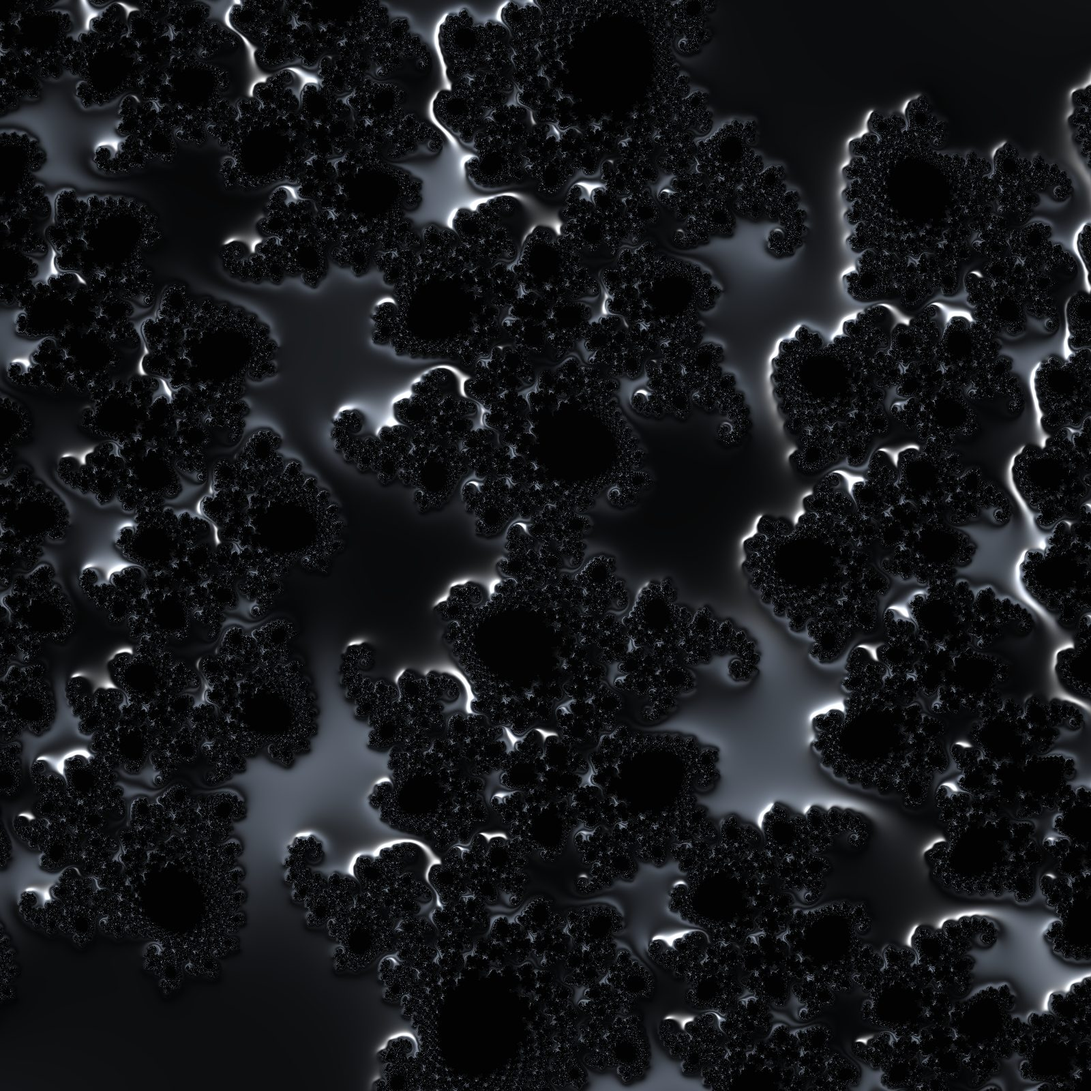
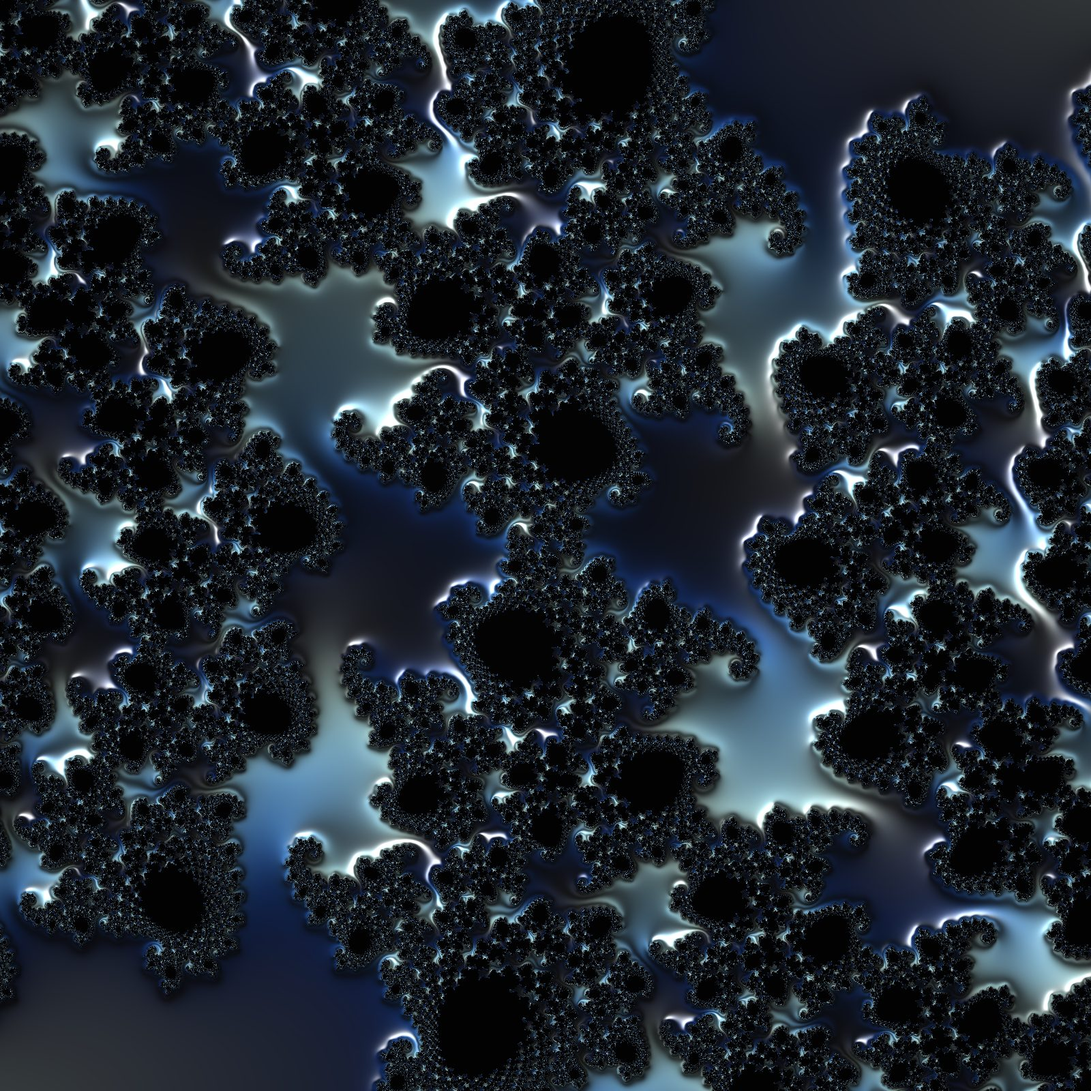
Fractal themes back to the original neon/ember/ice colours
Keeps the four shapes and the metallic lighting, coloured with the
first fractal palettes: Neon seahorse, Ember swirl, Ice spiral, Neon
lightning.

Claude-Session: https://claude.ai/code/session_017mYzszs9feN14jJPMm9ed1

diff --git a/index.html b/index.html
@@ -3960,10 +3960,10 @@ const WALLS=[
   {id:"liveportal",name:"Live portal",live:"portal",src:"wp/m/portal.jpg",pos:"50% 50%",shade:.1},
   {id:"livedub",name:"Live dub",live:"dub",src:"wp/m/deepdub.jpg",pos:"50% 50%",shade:0},
   {id:"livechrome",name:"Live silver",live:"chrome",src:"wp/m/pearl.jpg",pos:"50% 50%",shade:0},
-  {id:"fracseahorse",name:"Gold seahorse",live:"fseahorse",src:"wp/m/fracseahorse.jpg",pos:"50% 50%",shade:0},
-  {id:"fracswirl",name:"Rose gold swirl",live:"fswirl",src:"wp/m/fracswirl.jpg",pos:"50% 50%",shade:0},
-  {id:"fracspiral",name:"Gunmetal spiral",live:"fspiral",src:"wp/m/fracspiral.jpg",pos:"50% 50%",shade:0},
-  {id:"fracbolt",name:"Champagne lightning",live:"fbolt",src:"wp/m/fracbolt.jpg",pos:"50% 50%",shade:0}];
+  {id:"fracseahorse",name:"Neon seahorse",live:"fseahorse",src:"wp/m/fracseahorse.jpg",pos:"50% 50%",shade:0},
+  {id:"fracswirl",name:"Ember swirl",live:"fswirl",src:"wp/m/fracswirl.jpg",pos:"50% 50%",shade:0},
+  {id:"fracspiral",name:"Ice spiral",live:"fspiral",src:"wp/m/fracspiral.jpg",pos:"50% 50%",shade:0},
+  {id:"fracbolt",name:"Neon lightning",live:"fbolt",src:"wp/m/fracbolt.jpg",pos:"50% 50%",shade:0}];
 const WGROUPS=[["Live · animated",["livefire","liveportal","livedub","livechrome"]],["Fractal zoom",["fracseahorse","fracswirl","fracspiral","fracbolt"]],["Landscape",["alpine","serenity","snow","moonlit","aurora","sunset","ocean","forest","dunes","sakura"]],["Kaleidoscope",["hyperspace","portal","royalgold","gilded","inferno","deepdub","pearl","chrome"]],["Fire",["fire","serpent"]],["Dream & space",["liminal","nebula","midnight"]]];
 const wallGroups=()=>{const A=allWalls(),out=WGROUPS.map(([n,ids])=>[n,ids.map(i=>A.find(w=>w.id===i)).filter(Boolean)]);const seen=new Set(WGROUPS.flatMap(g=>g[1]));const rest=A.filter(w=>!w.custom&&!seen.has(w.id));if(rest.length)out[out.length-1][1].push(...rest);const mine=A.filter(w=>w.custom);if(mine.length)out.push(["Yours",mine]);return out.filter(g=>g[1].length)};
 const stripWalls=f=>wallGroups().map(([n,ws])=>`<span class="tgroup">${esc(n)}</span>`+ws.map(f).join("")).join("");
@@ -3985,9 +3985,9 @@ function bestSrc(w,spin){if(w.custom||!HDW.has(w.id))return w.src;const need=Mat
 const spinner=on=>{const e=$("#bgspin");if(e)e.classList.toggle("show",on)};
 /* live kaleidoscope: one shader, three palettes */
 /* fractal zoom: an endless dive into the Mandelbrot set, glowing along its edges */
-const FRAC_PAL={fseahorse:{tint:[1,.78,.36],sh:1,ctr:[-0.743643887037151,0.131825904205330],s0:1.6,s1:2e-4},fswirl:{tint:[.96,.62,.55],sh:2,ctr:[0,0],jc:[-0.8,0.156],s0:1.8,s1:.003},
-  fspiral:{tint:[.46,.5,.56],sh:2,ctr:[0,0],jc:[-0.7269,0.1889],s0:1.6,s1:.004},fbolt:{tint:[.93,.84,.64],sh:2,ctr:[0,0],jc:[0,1],s0:1.6,s1:.003}};
-const FRAC_FS=`precision highp float;uniform vec2 R;uniform float T;uniform vec2 Ctr,Jc;uniform float P,S0,S1,RO,SH;uniform vec3 TINT;float f(vec2 c){vec2 z=SH>1.5&&SH<2.5?c:vec2(0.);vec2 k=SH>1.5&&SH<2.5?Jc:c;float n=0.,m2=0.;for(int i=0;i<170;i++){if(SH>2.5&&SH<3.5)z=abs(z);if(SH>3.5)z.y=-z.y;z=vec2(z.x*z.x-z.y*z.y,2.*z.x*z.y)+k;m2=dot(z,z);if(m2>1e4)break;n+=1.;}return n>=169.?-1.:n-log2(log2(m2));}void main(){vec2 uv=(gl_FragCoord.xy-.5*R)/min(R.x,R.y);float ph=fract(T/P);float sc=S0*exp(-ph*log(S0/S1));float an=T*RO;mat2 rot=mat2(cos(an),-sin(an),sin(an),cos(an));uv=rot*uv;vec2 c=Ctr+uv*sc;float px=sc/min(R.x,R.y)*1.5;float h=f(c);vec3 col=vec3(.01);if(h>=0.){float hx=f(c+vec2(px,0.)),hy=f(c+vec2(0.,px));if(hx<0.)hx=h;if(hy<0.)hy=h;vec3 nrm=normalize(vec3((h-hx)*1.6,(h-hy)*1.6,1.));vec3 L=normalize(vec3(-.5,.6,.65));vec3 V=vec3(0.,0.,1.);vec3 Hh=normalize(L+V);float dif=max(dot(nrm,L),0.);float spe=pow(max(dot(nrm,Hh),0.),60.);vec3 rf=reflect(-V,nrm);float env=.5+.5*cos(rf.y*6.+rf.x*2.+h*.06);float band=.55+.45*cos(h*.18+T*.05);vec3 base=TINT*(.25+.75*env)*band;col=base*(.25+.9*dif)+vec3(1.)*spe*1.1+TINT*.04;}float fade=smoothstep(0.,.04,ph)*smoothstep(1.,.96,ph);float vig=1.-.45*dot(uv,uv);gl_FragColor=vec4(clamp(col*vig*fade,0.,1.),1.);}`;
+const FRAC_PAL={fseahorse:{tint:[1,1,1],a:[.5,.5,.5],b:[.5,.5,.5],c:[1,1,1],d:[0,.33,.67],sh:1,ctr:[-0.743643887037151,0.131825904205330],s0:1.6,s1:2e-4},fswirl:{tint:[1,1,1],a:[.5,.25,.12],b:[.5,.3,.15],c:[1,.9,.6],d:[0,.12,.25],sh:2,ctr:[0,0],jc:[-0.8,0.156],s0:1.8,s1:.003},
+  fspiral:{tint:[1,1,1],a:[.35,.5,.65],b:[.3,.35,.3],c:[1,1,1],d:[.55,.6,.68],sh:2,ctr:[0,0],jc:[-0.7269,0.1889],s0:1.6,s1:.004},fbolt:{tint:[1,1,1],a:[.5,.5,.5],b:[.5,.5,.5],c:[1,1,1],d:[0,.33,.67],sh:2,ctr:[0,0],jc:[0,1],s0:1.6,s1:.003}};
+const FRAC_FS=`precision highp float;uniform vec2 R;uniform float T;uniform vec2 Ctr,Jc;uniform float P,S0,S1,RO,SH;uniform vec3 TINT,A,B,C,Dd;float f(vec2 c){vec2 z=SH>1.5&&SH<2.5?c:vec2(0.);vec2 k=SH>1.5&&SH<2.5?Jc:c;float n=0.,m2=0.;for(int i=0;i<170;i++){if(SH>2.5&&SH<3.5)z=abs(z);if(SH>3.5)z.y=-z.y;z=vec2(z.x*z.x-z.y*z.y,2.*z.x*z.y)+k;m2=dot(z,z);if(m2>1e4)break;n+=1.;}return n>=169.?-1.:n-log2(log2(m2));}void main(){vec2 uv=(gl_FragCoord.xy-.5*R)/min(R.x,R.y);float ph=fract(T/P);float sc=S0*exp(-ph*log(S0/S1));float an=T*RO;mat2 rot=mat2(cos(an),-sin(an),sin(an),cos(an));uv=rot*uv;vec2 c=Ctr+uv*sc;float px=sc/min(R.x,R.y)*1.5;float h=f(c);vec3 col=vec3(.01);if(h>=0.){float hx=f(c+vec2(px,0.)),hy=f(c+vec2(0.,px));if(hx<0.)hx=h;if(hy<0.)hy=h;vec3 nrm=normalize(vec3((h-hx)*1.6,(h-hy)*1.6,1.));vec3 L=normalize(vec3(-.5,.6,.65));vec3 V=vec3(0.,0.,1.);vec3 Hh=normalize(L+V);float dif=max(dot(nrm,L),0.);float spe=pow(max(dot(nrm,Hh),0.),60.);vec3 rf=reflect(-V,nrm);float env=.5+.5*cos(rf.y*6.+rf.x*2.+h*.06);float band=.55+.45*cos(h*.18+T*.05);vec3 pal=A+B*cos(6.2831853*(C*(h*.03+T*.025)+Dd));vec3 base=pal*(.35+.65*env)*(.6+.4*band);col=base*(.25+.9*dif)+vec3(1.)*spe*1.1+TINT*.04;}float fade=smoothstep(0.,.04,ph)*smoothstep(1.,.96,ph);float vig=1.-.45*dot(uv,uv);gl_FragColor=vec4(clamp(col*vig*fade,0.,1.),1.);}`;
 const LIVE_PAL={
   inferno:{ramp:[[.6,.03,.02],[1,.36,.05],[1,.8,.32]],gain:1.15,n:8,cx:-.55,cy:-.6},
   portal:{a:[.5,.5,.5],b:[.5,.5,.5],c:[1,1,1],d:[0,.33,.67],gain:1,n:12,cx:-.62,cy:-.48},
@@ -4010,7 +4010,7 @@ function liveStart(cv,pal){const gl=cv.getContext("webgl",{antialias:false,alpha
   const uR=U("R"),uT=U("T");
   const fp=gl.createProgram();gl.attachShader(fp,sh(gl.VERTEX_SHADER,"attribute vec2 p;void main(){gl_Position=vec4(p,0.,1.);}"));gl.attachShader(fp,sh(gl.FRAGMENT_SHADER,FRAC_FS));gl.bindAttribLocation(fp,loc,"p");gl.linkProgram(fp);const fOK=gl.getProgramParameter(fp,gl.LINK_STATUS);
   const FU=n=>gl.getUniformLocation(fp,n);let cur=pr,uR2=uR,uT2=uT;
-  const set=k=>{if(FRAC_PAL[k]&&fOK){const q=FRAC_PAL[k];gl.useProgram(fp);cur=fp;gl.uniform2fv(FU("Ctr"),q.ctr);gl.uniform2fv(FU("Jc"),q.jc||[0,0]);gl.uniform1f(FU("SH"),q.sh);gl.uniform3fv(FU("TINT"),q.tint);gl.uniform1f(FU("P"),75);gl.uniform1f(FU("S0"),q.s0);gl.uniform1f(FU("S1"),q.s1);gl.uniform1f(FU("RO"),.008);uR2=FU("R");uT2=FU("T")}else{gl.useProgram(pr);cur=pr;uR2=uR;uT2=uT;if(LIVE_PAL[k])setPal(k)}};
+  const set=k=>{if(FRAC_PAL[k]&&fOK){const q=FRAC_PAL[k];gl.useProgram(fp);cur=fp;gl.uniform2fv(FU("Ctr"),q.ctr);gl.uniform2fv(FU("Jc"),q.jc||[0,0]);gl.uniform1f(FU("SH"),q.sh);gl.uniform3fv(FU("TINT"),q.tint);gl.uniform3fv(FU("A"),q.a);gl.uniform3fv(FU("B"),q.b);gl.uniform3fv(FU("C"),q.c);gl.uniform3fv(FU("Dd"),q.d);gl.uniform1f(FU("P"),75);gl.uniform1f(FU("S0"),q.s0);gl.uniform1f(FU("S1"),q.s1);gl.uniform1f(FU("RO"),.008);uR2=FU("R");uT2=FU("T")}else{gl.useProgram(pr);cur=pr;uR2=uR;uT2=uT;if(LIVE_PAL[k])setPal(k)}};
   return {setPal:set,draw(t){gl.viewport(0,0,cv.width,cv.height);gl.uniform2f(uR2,cv.width,cv.height);gl.uniform1f(uT2,t);gl.drawArrays(gl.TRIANGLES,0,3)},gl}}
 
 let liveEng=null,liveRAF=0,liveKey=null,liveFail=false,liveLast=0;const liveT0=performance.now()-Math.random()*6e5;
@@ -4412,7 +4412,7 @@ const num=id=>{const v=$(id).value;return v===""?null:+v};
 document.addEventListener("keydown",e=>{const r=e.target.closest&&e.target.closest("[data-selp]");if(r&&e.target===r&&(e.key==="Enter"||e.key===" ")){e.preventDefault();r.click()}});
 let wSavedAt=0,wFlash=null;
 document.addEventListener("click",e=>{const w=e.target.closest&&e.target.closest("[data-waslot]");if(!w)return;const [pid,sid,ds]=w.dataset.waslot.split(":");if(demoOn()&&!data.passions.some(p=>p.id===pid))return;selP=pid;pTab="schedule";selSlot={id:sid,ds};editSlot=null;go("pass");setTimeout(()=>{const el=$("#slotDetail");el&&el.scrollIntoView({behavior:"smooth",block:"center"})},350)});
-const APPV="224",APPT="2026-11-18T20:31:00-05:00";   /* APPT: when this update was made */
+const APPV="225",APPT="2026-11-18T20:36:00-05:00";   /* APPT: when this update was made */
 const updStamp=()=>{try{return new Date(APPT).toLocaleString(undefined,{month:"short",day:"numeric",hour:"numeric",minute:"2-digit"})}catch(e){return APPT.slice(0,16).replace("T"," ")}};if(/[?&]u=\d/.test(location.search))try{history.replaceState(null,"",location.pathname+location.hash)}catch(e){}
 /* pick up a new version without being asked: check when the app opens, when you come back to it, and every few minutes */
 (function(){if(location.protocol!=="https:"||!/github\.io$/.test(location.hostname))return;let busy=false;

diff --git a/sw.js b/sw.js
@@ -1,5 +1,5 @@
 // Offline support: the app opens without a connection; data syncs when back online.
-const VERSION = "aot-v224";
+const VERSION = "aot-v225";
 const LIB = "https://cdn.jsdelivr.net/npm/@supabase/supabase-js@2.45.4";
 const SHELL = ["./", "./index.html", "./config.js", "./ramsau.jpg", "./manifest.webmanifest",
   "./icon-192.png", "./icon-512.png", "./apple-touch-icon.png", LIB];
